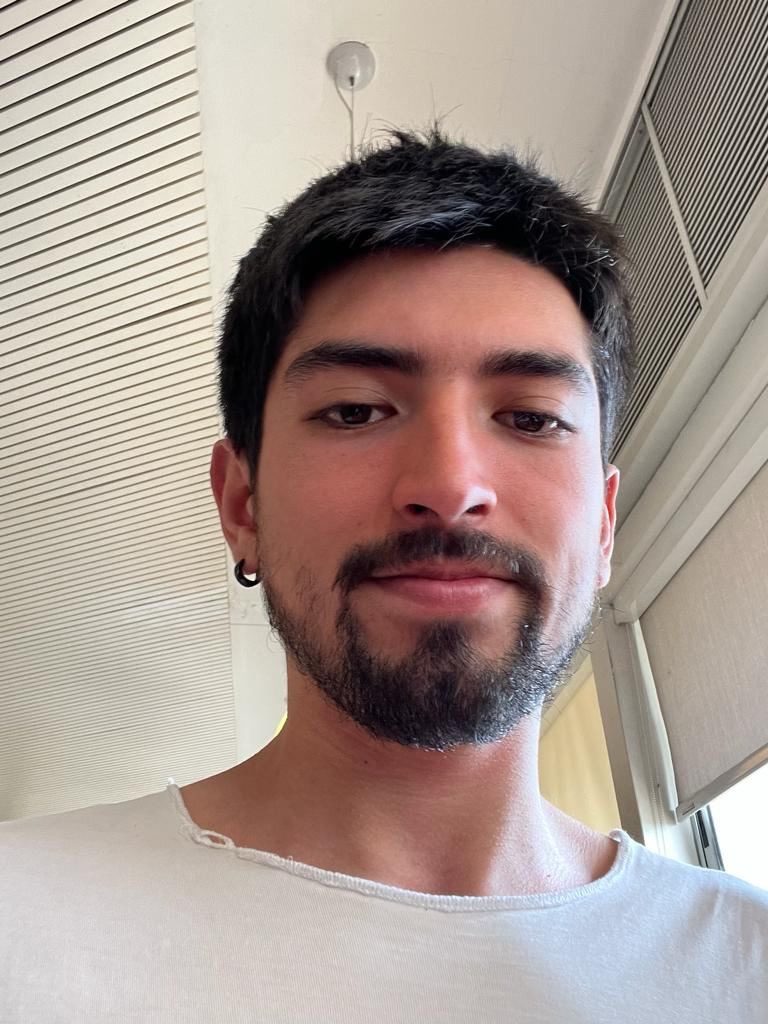
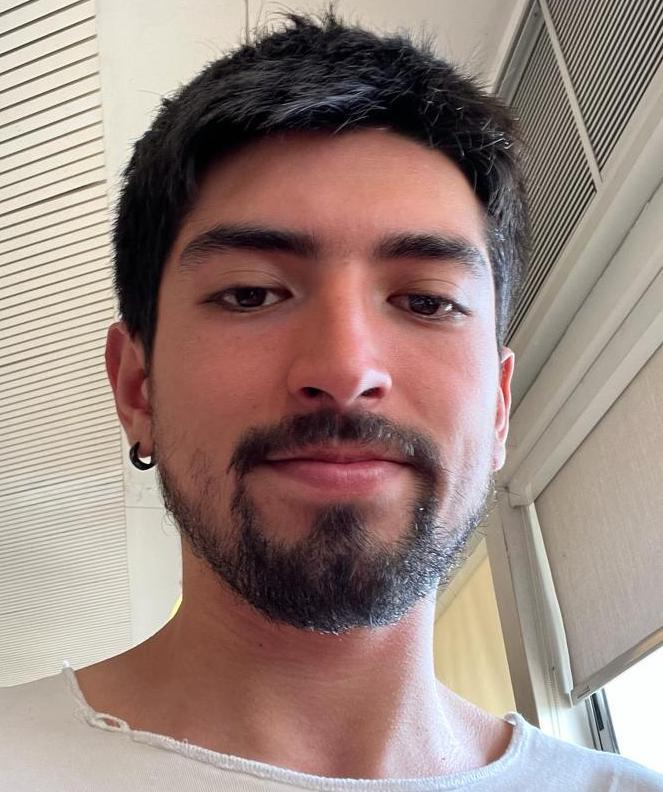
diseñonuevo2

diff --git a/src/pages/componentes/CardContainer.js b/src/pages/componentes/CardContainer.js
@@ -42,19 +42,19 @@ const CardContainer = ({
     return (
         <>
         <CardTop></CardTop>
-        <div className='container bg-light p-3' >
+        <div  className='container bg-light p-3' >
         <Nav variant="tabs" >
-        <Nav.Item>
-            <Nav.Link eventKey="link-1" onClick={() => setcategoria('electronics')}>Electronica</Nav.Link>
+        <Nav.Item >
+            <Nav.Link style= {{color:'rgb(237, 121, 229)'}} eventKey="link-1" onClick={() => setcategoria('electronics')}>Electronica</Nav.Link>
         </Nav.Item>
         <Nav.Item>
-            <Nav.Link eventKey="link-2" onClick={() => setcategoria('jewelery')}>Joyeria</Nav.Link>
+            <Nav.Link style= {{color:'rgb(237, 121, 229)'}}  eventKey="link-2" onClick={() => setcategoria('jewelery')}>Joyeria</Nav.Link>
         </Nav.Item>
         <Nav.Item>
-            <Nav.Link eventKey="link-3" onClick={() => setcategoria("men's clothing")}>Hombre</Nav.Link>
+            <Nav.Link style= {{color:'rgb(237, 121, 229)'}}  eventKey="link-3" onClick={() => setcategoria("men's clothing")}>Hombre</Nav.Link>
         </Nav.Item>
         <Nav.Item>
-            <Nav.Link eventKey="link-4" onClick={() => setcategoria("women's clothing")}>Mujer</Nav.Link>
+            <Nav.Link  style= {{color:'rgb(237, 121, 229)'}} eventKey="link-4" onClick={() => setcategoria("women's clothing")}>Mujer</Nav.Link>
         </Nav.Item>
         </Nav>
 
@@ -84,8 +84,8 @@ const CardContainer = ({
                                                                 backgroundcolor:"#EAE2E0"}}>
                                                                 <h5 class="card-title text-align-center d-flex justify-content-center">{product.price}$</h5>
                                                                 <br></br>
-                                                                <button class="btn btn-outline-primary d-flex justify-content-center m-2" onClick={() => onAddProduct(product)}>Añadir al carrito</button>
-                                                                <Link class="btn btn-warning d-flex justify-content-center m-2"  to='/productoindividual' onClick={() => onAddProduct(product)}>Ir al producto</Link>
+                                                                <button style= {{backgroundColor:'rgb(237, 121, 229)'}} class="btn  d-flex justify-content-center m-2" onClick={() => onAddProduct(product)}>Añadir al carrito</button>
+                                                                <Link style= {{backgroundColor:'#333',color:'white'}}class="btn d-flex justify-content-center m-2"  to='/productoindividual' onClick={() => onAddProduct(product)}>Ir al producto</Link>
 
                                                             </div>
                                                             

diff --git a/src/pages/componentes/us.js b/src/pages/componentes/us.js
@@ -1,57 +1,32 @@
+import React from 'react';
+import f1 from './fotos/yo.jpeg';
+import f2 from './fotos/jova.jpg';
 
+const imagenes = [
+  
+  f1 ,
+  f2
+ 
 
-import React, { useState } from 'react';
-import { Carousel } from 'react-bootstrap'; 
-import jova from './fotos/jova.jpg' ;
-import faba from './fotos/yo.jpeg';
-function ControlledCarousel2() {
-  const [index1, setIndex1] = useState(0);
-  const [index2, setIndex2] = useState(0);
+ 
+];
 
-  const handleSelect1 = (selectedIndex) => {
-    setIndex1(selectedIndex);
-  };
-
-  const handleSelect2 = (selectedIndex) => {
-    setIndex2(selectedIndex);
-  };
-
-  return (
-    <div style={{ display: 'flex' }}>
-      {/* Primer Carrusel */}
-      <Carousel activeIndex={index1} onSelect={handleSelect1}>
-        <Carousel.Item>
-          <img src={jova} className="d-block w-100" alt={'...'}  />
-          <Carousel.Caption>
-            <h3>Jovanka Espinoza Cajas</h3>
-          </Carousel.Caption>
-        </Carousel.Item>
-
-
-        <img src={jova} className="d-block w-100" alt={'...'}  />
-          <Carousel.Caption>
-            <h3 > Jovanka Espinoza Cajas</h3>
-          </Carousel.Caption>
+const Galeria = () => {
+    return (
+      <section id="pics" className="GALERIA">
       
-      </Carousel>
-
-      {/* Segundo Carrusel */}
-      <Carousel activeIndex={index2} onSelect={handleSelect2}>
-        <Carousel.Item>
-          <img src={faba} className="d-block w-100" alt="70px" />
-          <Carousel.Caption>
-          <h3 > Franciso faba</h3>
-          </Carousel.Caption>
-        </Carousel.Item>
-        <Carousel.Item>
-          <img src={faba} className="d-block w-100" alt="70px" />
-          <Carousel.Caption>
-          <h3 > Franciso faba</h3>
-          </Carousel.Caption>
-        </Carousel.Item>
-      </Carousel>
-    </div>
-  );
-}
-
-export default ControlledCarousel2;
+        <div className="contenedor" style = {{display: 'flex' , justifyContent: 'center', alignItems: 'center', flexWrap : ' wrap'}}>
+          {imagenes.map((imagen, index) => (
+            <img
+              key={index}
+              src={imagen}
+              alt={`Imagen${index + 1}`}
+              className="imagen-click"
+            />
+          ))}
+        </div>
+      </section>
+    );
+  };
+  
+  export default Galeria;

diff --git a/src/pages/HomePage.js b/src/pages/HomePage.js
@@ -4,23 +4,30 @@ import Footer from './componentes/Footer';
 import ControlledCarousel from './componentes/Carrusel';
 import Incentivos from './componentes/Incentivos';
 import Galeria from './componentes/galeria';
+import PopupAd from './componentes/popup';
+import AD from './componentes/fotos/ad.png'
 
 function HomePage() {
-  const [backgroundColor, setBackgroundColor] = useState('#777067');
+  const [backgroundColor, setBackgroundColor] = useState('rgb(237, 121, 229)');
+  const [showPopup, setShowPopup] = useState(true);
 
   useEffect(() => {
     const intervalId = setInterval(() => {
-      setBackgroundColor((prevColor) => (prevColor === '#777067' ? 'white' : '#777067'));
-    }, 1000);
+      setBackgroundColor((prevColor) => (prevColor === 'rgb(237, 121, 229)' ? 'white' : 'rgb(237, 121, 229)'));
+    }, 500);
 
     return () => clearInterval(intervalId);
   }, []);
+  const closePopup = () => {
+    setShowPopup(false);
+  };
 
   return (
     <>
+  
       <div
         style={{
-          backgroundColor: backgroundColor, // Usar el color dinámico
+          backgroundColor: backgroundColor, 
           color: '#333',
           textAlign: 'center',
           padding: '10px',
@@ -30,7 +37,9 @@ function HomePage() {
       >
         ¡Envío gratis en pedidos superiores a $50.000!
       </div>
-
+      {showPopup && (
+        <PopupAd imageUrl={AD} onClose={closePopup} />
+      )}
       <div className='container text-center' style={{ color: 'white' }}>
         <h1 style={{ color: 'white', fontFamily: 'Copperplate', fontSize: 100 }}>
           ¡Bienvenidos a nuestra tienda!

diff --git a/src/pages/componentes/popup.js b/src/pages/componentes/popup.js
@@ -1,0 +1,30 @@
+import React, { useState } from 'react';
+
+
+const PopupAd = ({ imageUrl, onClose }) => {
+  const [isVisible, setIsVisible] = useState(true);
+
+  const handleClose = () => {
+    setIsVisible(false);
+    if (onClose) {
+      onClose();
+    }
+  };
+
+  return (
+    <>
+      {isVisible && (
+        <div style={{ position: 'fixed', top: '50px', right: 0, backgroundColor: 'white', boxShadow: '0px 0px 10px rgba(0, 0, 0, 0.2)', zIndex: 999 }}>
+          <img src={imageUrl} alt="Popup Ad" style={{ maxWidth: '100%', maxHeight: '100%', cursor: 'pointer' }} onClick={handleClose} />
+          <p style={{ textAlign: 'center', marginTop: '0px', fontSize: '14px', color: 'white', backgroundColor:'black' }}>click para cerrar anuncio!</p>
+          
+          <div style={{ position: 'absolute', top: '25px', right: '5px', cursor: 'pointer' }} onClick={handleClose}>
+            X
+          </div>
+        </div>
+      )}
+    </>
+  );
+};
+
+export default PopupAd;

diff --git a/src/pages/AcercaDe.js b/src/pages/AcercaDe.js
@@ -19,7 +19,7 @@ function AcercaDe() {
             </div>
             <div className='row p-5'>
               
-              <p style={{fontFamily: 'copperplate'}}>Nos emociona presentarles nuestra plataforma de venta en línea de productos, una iniciativa creada por estudiantes comprometidos con la excelencia académica.
+              <p style={{fontFamily: 'copperplate'}}>Somos Francisco Faba y Jovanka espinoza y nos emociona presentarles nuestra plataforma de venta en línea de productos, una iniciativa creada por estudiantes comprometidos con la excelencia académica.
 
 En nuestro sitio web, encontrarás una amplia variedad de productos cuidadosamente seleccionados para satisfacer tus necesidades y preferencias. Desde productos electrónicos hasta moda, hogar y más, nos esforzamos por ofrecer una experiencia de compra completa y conveniente. </p>
 

diff --git a/src/pages/componentes/Cart2.js b/src/pages/componentes/Cart2.js
@@ -50,7 +50,7 @@ const Cart2 = ({
 													<h5>${product.price}</h5>
 												</div>
 												<div className='col-2'>
-													<button className='btn btn-danger'
+													<button style= {{backgroundColor:'#333'}}className='btn btn-danger'
 														onClick={() => onDeleteProduct(product)}
 														
 													>
@@ -71,7 +71,7 @@ const Cart2 = ({
 							<div className='container '>	
 								<div className='row'>
 									<div className='col-8 d-flex justify-content-start'>
-										<button className='btn btn-success' style={{marginBottom:'1rem',paddingLeft:'2rem',paddingRight:'2rem'}} >
+										<button  className='btn btn-success' style={{ backgroundColor:'rgb(237, 121, 229)',marginBottom:'1rem',paddingLeft:'2rem',paddingRight:'2rem'}} >
 											Pagar
 										</button>
 

diff --git a/src/pages/componentes/CardTop.js b/src/pages/componentes/CardTop.js
@@ -7,10 +7,10 @@ function CardTop() {
 
   return (
     <>
-      <h4 style={{margin:'0px', padding:"1rem", backgroundColor: '#333',fontFamily:'copperplate', color:'white',textAlign:'center'}}>¡Explora Nuestra Tienda!</h4>
+      <h4 style={{margin:'0px', padding:"1rem", backgroundColor: '#333',fontFamily:'copperplate', color:'white',textAlign:'center',color:'rgb(237, 121, 229)'}}>¡Explora Nuestra Tienda!</h4>
         
 
-        <h6 style={{margin:'0px', padding:"1rem", backgroundColor: 'rgb(157, 155, 160)',fontFamily:'copperplate',textAlign:'center'}}> {tiendaTexto}</h6>
+        <h6 style={{margin:'0px', padding:"1rem", backgroundColor: 'rgb(157, 155, 160)',fontFamily:'copperplate',textAlign:'center',}}> {tiendaTexto}</h6>
 
 
       

diff --git a/src/pages/componentes/Footer.js b/src/pages/componentes/Footer.js
@@ -48,7 +48,7 @@ function Footer() {
           <div className="d-flex flex-column flex-sm-row justify-content-between py-4 my-4 border-top">
             <p style={{ color: 'rgb(237, 121, 229)' }}>© 2022 Company, Inc. All rights reserved.</p>
             <ul className="list-unstyled d-flex">
-              {/* Íconos de redes sociales como imágenes */}
+             
               <li className="ms-3">
                 <a className="link-light" href="https://es-la.facebook.com/">
                   <img src={facebookIcon} alt="Facebook" width="24" height="24" />
